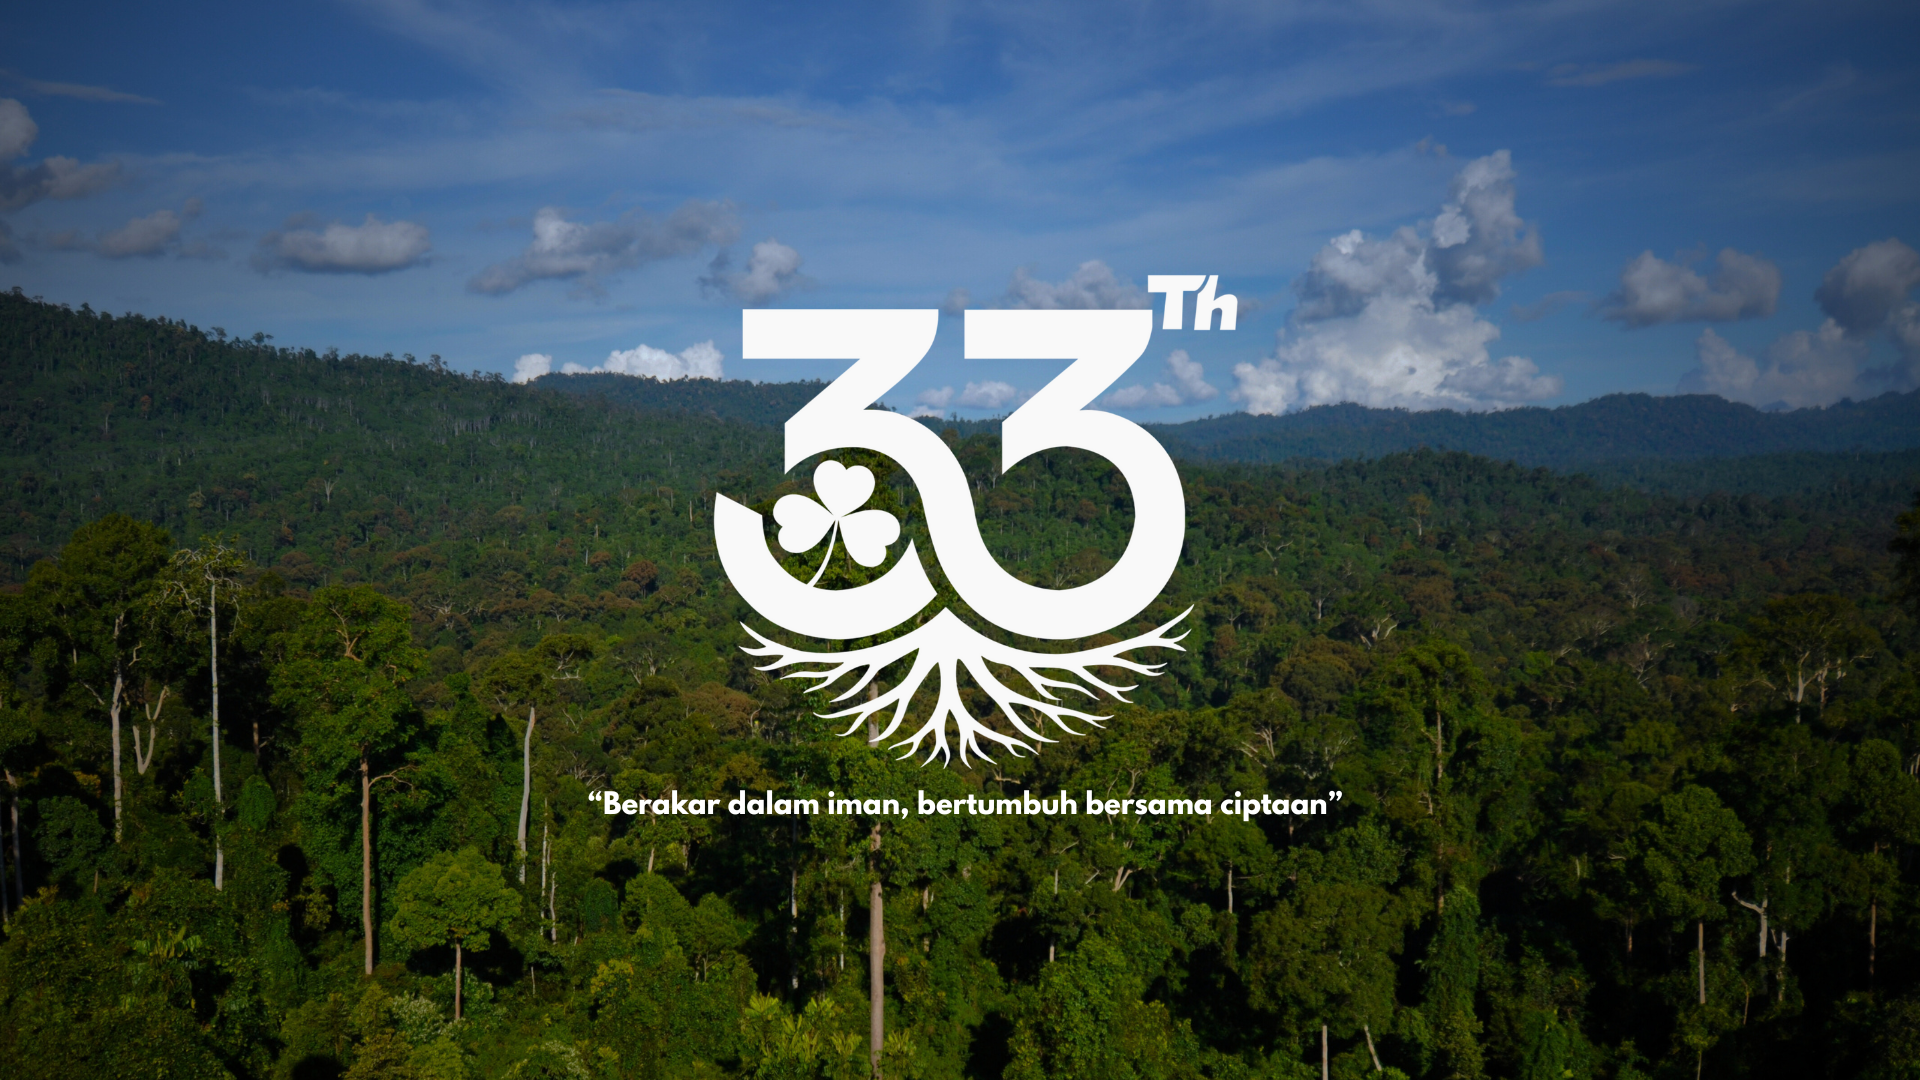
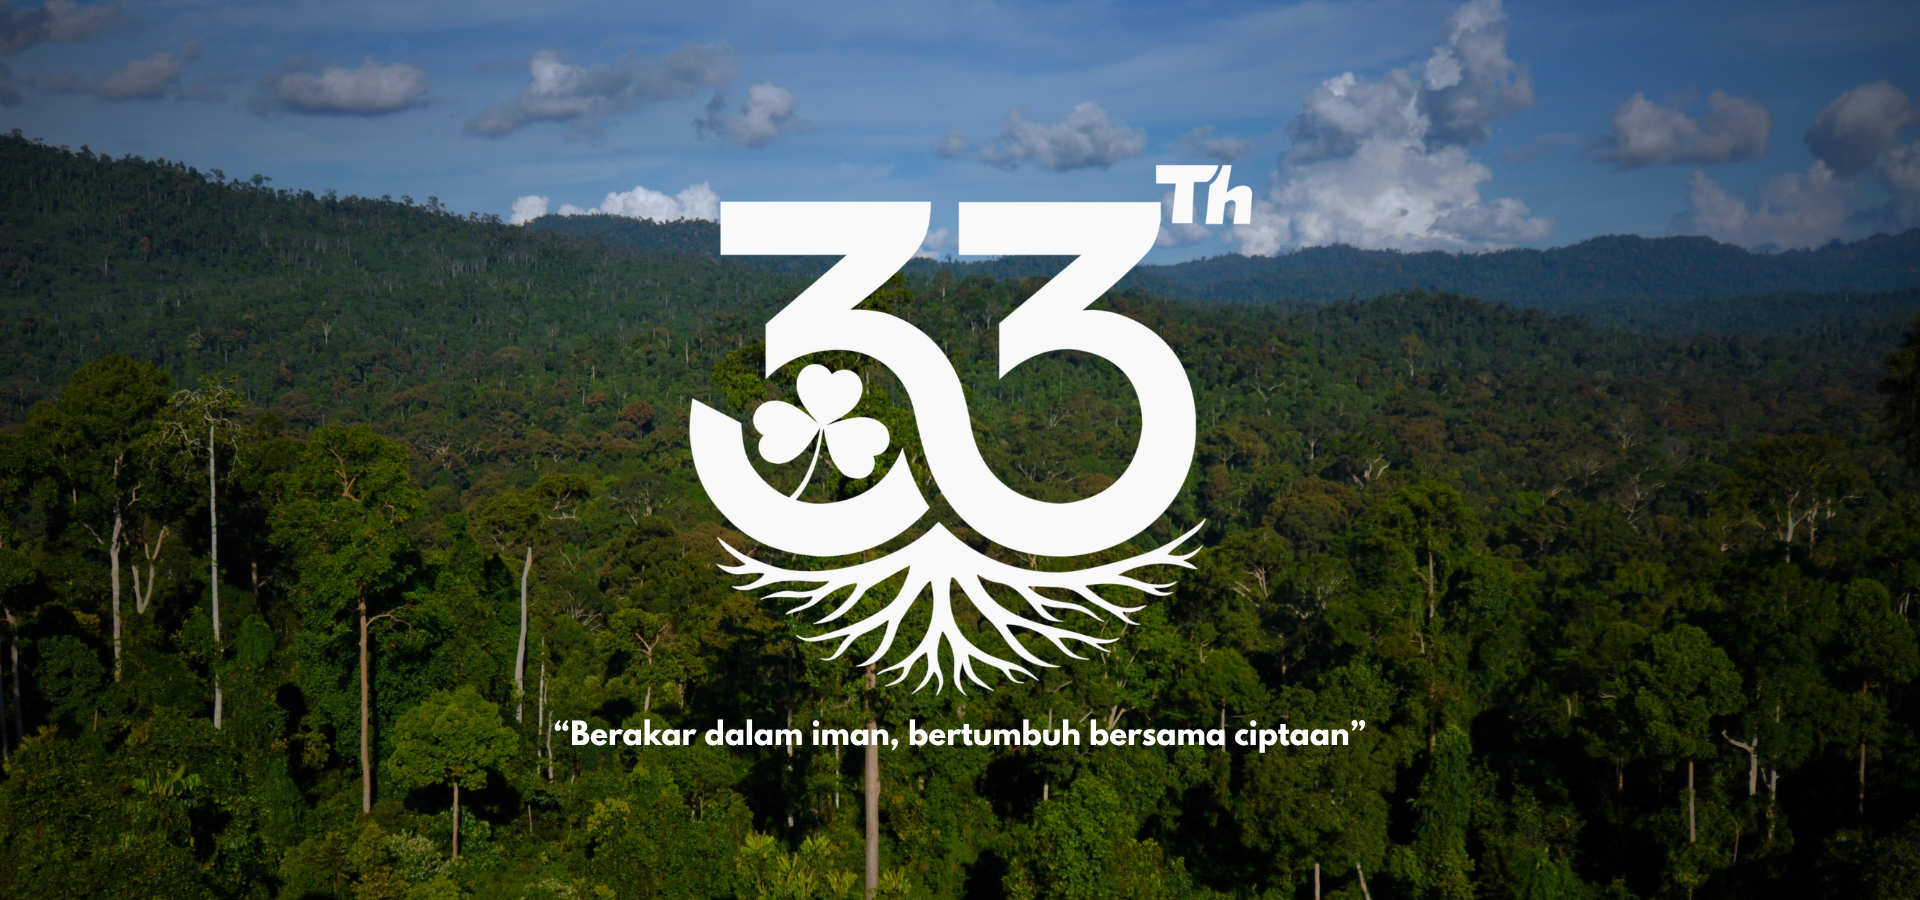
jadwal, carouse, responsive
biar enak dilihat

diff --git a/src/pages/Jadwal.jsx b/src/pages/Jadwal.jsx
@@ -1,123 +1,140 @@
 import PageWrapper from "../components/PageWrapper"
 
 export default function Jadwal() {
-  const timeline = [
-    {
-      tanggal: "2 Mei 2026",
-      kegiatan:
-        'Sosialisasi Kegiatan HUT Paroki "Mengelola Sampah menjadi Berkat"',
-    },
-    {
-      tanggal: "3 Mei 2026",
-      kegiatan: "Kegiatan HUT Paroki Pamulang ke-33 dimulai",
-    },
-    {
-      tanggal: "Mei - Juli 2026",
-      kegiatan:
-        "Kunjungan Tim Visitasi ke Wilayah (disesuaikan jadwal wilayah)",
-    },
-    {
-      tanggal: "19 Juli 2026",
-      kegiatan: "Acara Puncak HUT Paroki Pamulang ke-33",
-    },
-  ]
-
   return (
     <PageWrapper>
       <section className="min-h-screen bg-white py-24 px-4 sm:px-6">
-        
-        {/* Container */}
-        <div className="max-w-6xl mx-auto">
-          
-          {/* Header */}
-          <div className="mb-14">
-            
-            {/* Label */}
-            <div className="flex items-center gap-4 mb-5">
-              <div className="w-12 sm:w-16 h-3 bg-green-800 rounded-r-full"></div>
+        <div className="max-w-5xl mx-auto">
 
-              <span className="uuppercase tracking-[0.2em] text-sm sm:text-base text-green-800 font-medium">
+          {/* Header */}
+          <div className="mb-16">
+            <div className="flex items-center gap-4 mb-5">
+              <div className="w-14 h-[3px] bg-green-800 rounded-full"></div>
+
+              <span className="uppercase tracking-[0.25em] text-sm text-green-800 font-medium">
                 Time Line Kegiatan
               </span>
             </div>
 
-            {/* Title */}
-            <h1 className="text-4xl sm:text-5xl md:text-6xl font-bold text-green-800 leading-tight">
-              HUT Paroki Pamulang
+            <h1 className="text-4xl sm:text-5xl font-bold text-green-800 leading-tight">
+              HUT Ke-33
             </h1>
 
-            <h2 className="text-2xl sm:text-3xl md:text-4xl text-green-700 mt-2 font-light">
-              ke-33
+            <h2 className="text-2xl sm:text-3xl text-gray-800 mt-2">
+              Paroki Pamulang - Gereja Santo Barnabas
             </h2>
-          </div>
 
-          {/* Tema */}
-          <div className="mb-12">
-            <h3 className="text-2xl sm:text-3xl md:text-5xl font-light text-black leading-snug">
-              Mengelola sampah
-              <span className="font-semibold"> menjadi berkat</span>
-            </h3>
+            <p className="mt-6 text-lg text-gray-700 italic">
+              “Mengelola Sampah Menjadi Berkat”
+            </p>
           </div>
 
           {/* Timeline */}
-          <div className="relative">
-            
-            {/* Garis Timeline */}
-            <div className="hidden md:block absolute left-5 top-0 bottom-0 w-1 bg-green-700/20 rounded-full"></div>
+          <div className="space-y-10">
 
-            <div className="flex flex-col gap-6">
-              {timeline.map((item, index) => (
-                <div
-                  key={index}
-                  className="
-                    relative
-                    bg-white
-                    border
-                    border-gray-200
-                    rounded-3xl
-                    p-5
-                    sm:p-6
-                    shadow-sm
-                    hover:shadow-md
-                    transition-all
-                    duration-300
-                    md:ml-14
-                  "
-                >
-                  {/* Dot Timeline */}
-                  <div
-                    className="
-                      hidden md:block
-                      absolute
-                      -left-12
-                      top-7
-                      w-5
-                      h-5
-                      rounded-full
-                      bg-green-700
-                      border-4
-                      border-white
-                    "
-                  ></div>
+            {/* 1 */}
+            <div className="border border-gray-200 rounded-3xl p-6 sm:p-8">
+              <div className="mb-6">
+                <p className="text-sm uppercase tracking-[0.2em] text-green-700 font-semibold mb-2">
+                  1. Sosialisasi Kegiatan
+                </p>
 
-                  <div className="flex flex-col md:flex-row md:items-center gap-3 md:gap-8">
-                    
-                    {/* Tanggal */}
-                    <div className="md:min-w-[220px]">
-                      <p className="text-lg sm:text-xl font-semibold text-green-800">
-                        {item.tanggal}
-                      </p>
-                    </div>
+                <h3 className="text-2xl font-bold text-gray-900 leading-snug">
+                  Sosialisasi Kegiatan Lomba HUT Ke-33
+                </h3>
 
-                    {/* Isi */}
-                    <div className="flex-1">
-                      <p className="text-base sm:text-lg text-gray-800 leading-relaxed">
-                        {item.kegiatan}
-                      </p>
-                    </div>
-                  </div>
+                <p className="text-gray-600 mt-2">
+                  GKP Lantai 2 — 02 Mei 2026
+                </p>
+              </div>
+
+              <div className="space-y-4 border-l-2 border-green-200 pl-5">
+                <div>
+                  <p className="text-green-800 font-semibold">
+                    10 – 31 Mei 2026
+                  </p>
+
+                  <p className="text-gray-800">
+                    Sosialisasi Tambahan I ke wilayah-wilayah
+                  </p>
                 </div>
-              ))}
+
+                <div>
+                  <p className="text-green-800 font-semibold">
+                    01 – 07 Juni 2026
+                  </p>
+
+                  <p className="text-gray-800">
+                    Sosialisasi Tambahan II ke wilayah-wilayah
+                  </p>
+                </div>
+              </div>
+            </div>
+
+            {/* 2 */}
+            <div className="border border-gray-200 rounded-3xl p-6 sm:p-8">
+              <div className="mb-6">
+                <p className="text-sm uppercase tracking-[0.2em] text-green-700 font-semibold mb-2">
+                  2. Kegiatan Lomba
+                </p>
+
+                <h3 className="text-2xl font-bold text-gray-900 leading-snug">
+                  Mengelola Sampah Menjadi Berkat
+                </h3>
+
+                <p className="text-gray-600 mt-2">
+                  03 Mei – 12 Juli 2026
+                </p>
+              </div>
+
+              <div className="space-y-4 border-l-2 border-green-200 pl-5">
+                <div>
+                  <p className="text-green-800 font-semibold">
+                    23 Mei – 14 Juni 2026
+                  </p>
+
+                  <p className="text-gray-800">
+                    Visitasi I Panitia HUT ke Wilayah
+                  </p>
+                </div>
+
+                <div>
+                  <p className="text-green-800 font-semibold">
+                    04 – 12 Juli 2026
+                  </p>
+
+                  <p className="text-gray-800">
+                    Visitasi II Panitia HUT ke Wilayah
+                  </p>
+                </div>
+              </div>
+            </div>
+
+            {/* 3 */}
+            <div className="border border-gray-200 rounded-3xl p-6 sm:p-8">
+              <div className="mb-6">
+                <p className="text-sm uppercase tracking-[0.2em] text-green-700 font-semibold mb-2">
+                  3. Acara Puncak
+                </p>
+
+                <h3 className="text-2xl font-bold text-gray-900 leading-snug">
+                  HUT Ke-33 Paroki Pamulang
+                </h3>
+
+                <p className="text-gray-600 mt-2">
+                  19 Juli 2026
+                </p>
+              </div>
+
+              <div className="border-l-2 border-green-200 pl-5">
+                <p className="text-green-800 font-semibold">
+                  19 Juli 2026
+                </p>
+
+                <p className="text-gray-800">
+                  Pengundian Kupon Doorprize Dimulai
+                </p>
+              </div>
             </div>
 
           </div>

diff --git a/src/components/Carousel.jsx b/src/components/Carousel.jsx
@@ -7,10 +7,13 @@ import "swiper/css/pagination"
 import img1 from "../assets/Carousel1.png"
 import img2 from "../assets/Carousel2.png"
 import img3 from "../assets/Carousel3.png"
+import img4 from "../assets/Carousel4.png"
 
 export default function Carousel() {
+  const images = [img1, img2, img3, img4]
+
   return (
-    <section className="w-full">
+    <section className="w-full overflow-hidden">
       <Swiper
         modules={[Autoplay, Pagination]}
         autoplay={{
@@ -19,15 +22,15 @@ export default function Carousel() {
         }}
         pagination={{ clickable: true }}
         loop={true}
-        className="w-full h-[70vh] md:h-[80vh]"
+        className="w-full"
       >
-        {[img1, img2, img3].map((img, index) => (
+        {images.map((img, index) => (
           <SwiperSlide key={index}>
-            <div className="w-full h-full relative">
+            <div className="w-full aspect-[1920/900] bg-white">
               <img
                 src={img}
                 alt={`Carousel ${index + 1}`}
-                className="w-full h-full object-cover"
+                className="w-full h-full object-contain"
               />
             </div>
           </SwiperSlide>

diff --git a/src/pages/Home.jsx b/src/pages/Home.jsx
@@ -338,8 +338,8 @@ export default function Home() {
                 </h3>
 
                 <p className="text-gray-600 mt-5 leading-relaxed max-w-2xl">
-                  Mari ambil bagian dalam kemeriahan HUT Paroki dengan
-                  memesan kupon doorprize sekarang juga.
+                  Hadiah undian yang bisa kamu dapatkan, mulai dari 1 motor listrik,
+                  3 sepeda, 2 laptop, 5 HP, hingga berbagai hadiah hiburan menarik lainnya.
                 </p>
 
                 <div className="mt-8">
